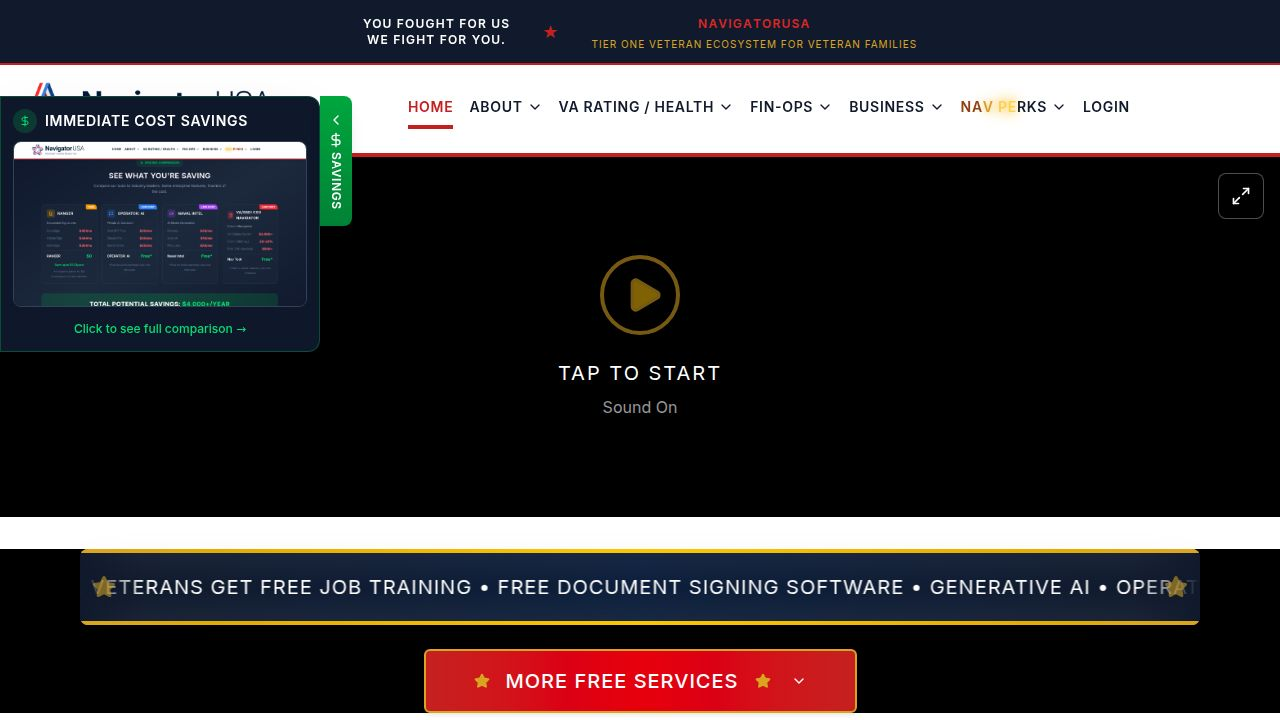
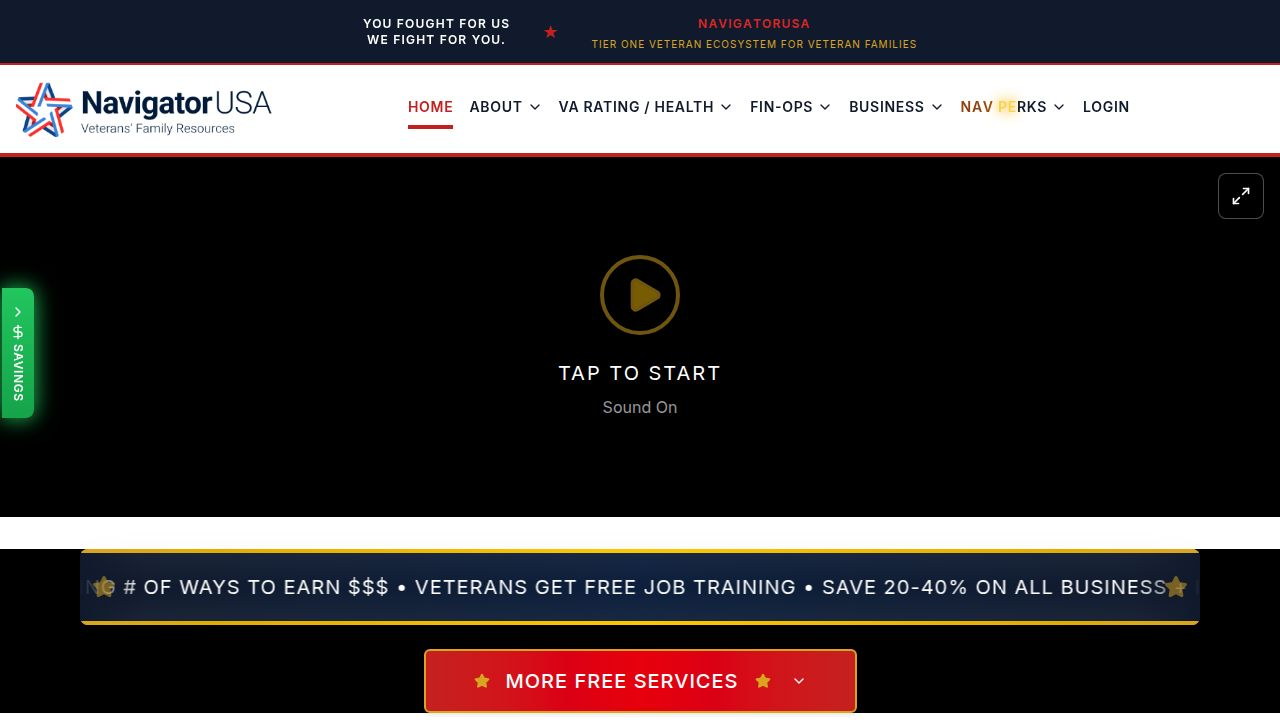
Animate cost savings widget and start it retracted
Update the cost savings widget to initialize in a retracted state, requiring user interaction to expand. Implement a flashing green animation for the retracted widget to draw attention.

Replit-Commit-Author: Agent
Replit-Commit-Session-Id: d10b5876-8984-41e8-a034-80bdb4d7a65a
Replit-Commit-Checkpoint-Type: full_checkpoint
Replit-Commit-Event-Id: fe3d0933-f686-4402-b1d4-cab22d2a968d
Replit-Commit-Screenshot-Url: https://storage.googleapis.com/screenshot-production-us-central1/f88dd830-92ac-4d12-a8c1-ac72bcbfbb85/d10b5876-8984-41e8-a034-80bdb4d7a65a/jIbah38
Replit-Helium-Checkpoint-Created: true

Changed region(s): [[0.0, 0.1222, 0.2812, 0.6111], [0.0625, 0.7944, 0.9375, 0.825], [0.75, 0.1222, 0.7812, 0.1528]]

diff --git a/client/src/components/cost-savings-widget.tsx b/client/src/components/cost-savings-widget.tsx
@@ -4,57 +4,76 @@ import { ChevronRight, ChevronLeft, DollarSign } from "lucide-react";
 import costSavingsPreview from "@/assets/images/cost-savings-preview.png";
 
 export function CostSavingsWidget() {
-  const [isMinimized, setIsMinimized] = useState(false);
+  const [isMinimized, setIsMinimized] = useState(true);
 
   return (
-    <div className="fixed top-[40%] left-0 z-50 flex items-start">
-      <div
-        className={`bg-slate-900 border border-green-500/30 rounded-r-xl shadow-2xl transition-all duration-300 overflow-hidden ${
-          isMinimized ? "w-0 opacity-0" : "w-72 sm:w-80 opacity-100"
-        }`}
-      >
-        <div className="p-3">
-          <div className="flex items-center gap-2 mb-2">
-            <div className="w-6 h-6 bg-green-500/20 rounded-full flex items-center justify-center">
-              <DollarSign className="w-3 h-3 text-green-400" />
-            </div>
-            <h3 className="text-sm font-bold text-white uppercase tracking-wider">
-              Immediate Cost Savings
-            </h3>
-          </div>
-          
-          <Link href="/about-nav-perks#pricing-comparison">
-            <div className="cursor-pointer group">
-              <img
-                src={costSavingsPreview}
-                alt="Cost Savings Comparison"
-                className="w-full rounded-lg border border-slate-700 group-hover:border-green-500/50 transition-all"
-              />
-              <div className="mt-2 text-center">
-                <span className="text-green-400 text-xs font-medium group-hover:underline">
-                  Click to see full comparison →
-                </span>
+    <>
+      <style>{`
+        @keyframes flashGreen {
+          0%, 100% { 
+            background: linear-gradient(to bottom, #16a34a, #15803d);
+            box-shadow: 0 0 10px rgba(34, 197, 94, 0.5);
+          }
+          50% { 
+            background: linear-gradient(to bottom, #22c55e, #16a34a);
+            box-shadow: 0 0 20px rgba(34, 197, 94, 0.8), 0 0 30px rgba(34, 197, 94, 0.4);
+          }
+        }
+        .animate-flash-green {
+          animation: flashGreen 1.5s ease-in-out infinite;
+        }
+      `}</style>
+      <div className="fixed top-[40%] left-0 z-50 flex items-start">
+        <div
+          className={`bg-slate-900 border border-green-500/30 rounded-r-xl shadow-2xl transition-all duration-300 overflow-hidden ${
+            isMinimized ? "w-0 opacity-0" : "w-72 sm:w-80 opacity-100"
+          }`}
+        >
+          <div className="p-3">
+            <div className="flex items-center gap-2 mb-2">
+              <div className="w-6 h-6 bg-green-500/20 rounded-full flex items-center justify-center">
+                <DollarSign className="w-3 h-3 text-green-400" />
               </div>
+              <h3 className="text-sm font-bold text-white uppercase tracking-wider">
+                Immediate Cost Savings
+              </h3>
             </div>
-          </Link>
+            
+            <Link href="/about-nav-perks#pricing-comparison">
+              <div className="cursor-pointer group">
+                <img
+                  src={costSavingsPreview}
+                  alt="Cost Savings Comparison"
+                  className="w-full rounded-lg border border-slate-700 group-hover:border-green-500/50 transition-all"
+                />
+                <div className="mt-2 text-center">
+                  <span className="text-green-400 text-xs font-medium group-hover:underline">
+                    Click to see full comparison →
+                  </span>
+                </div>
+              </div>
+            </Link>
+          </div>
         </div>
+        
+        <button
+          onClick={() => setIsMinimized(!isMinimized)}
+          className={`text-white px-2 py-4 rounded-r-lg shadow-lg transition-all flex flex-col items-center gap-1 ${
+            isMinimized ? "animate-flash-green" : "bg-gradient-to-b from-green-600 to-green-700 hover:from-green-500 hover:to-green-600"
+          }`}
+          data-testid="cost-savings-toggle"
+        >
+          {isMinimized ? (
+            <ChevronRight className="w-4 h-4" />
+          ) : (
+            <ChevronLeft className="w-4 h-4" />
+          )}
+          <DollarSign className="w-4 h-4" />
+          <span className="text-xs font-bold uppercase tracking-wider [writing-mode:vertical-rl] [text-orientation:mixed]">
+            Savings
+          </span>
+        </button>
       </div>
-      
-      <button
-        onClick={() => setIsMinimized(!isMinimized)}
-        className="bg-gradient-to-b from-green-600 to-green-700 text-white px-2 py-4 rounded-r-lg shadow-lg hover:from-green-500 hover:to-green-600 transition-all flex flex-col items-center gap-1"
-        data-testid="cost-savings-toggle"
-      >
-        {isMinimized ? (
-          <ChevronRight className="w-4 h-4" />
-        ) : (
-          <ChevronLeft className="w-4 h-4" />
-        )}
-        <DollarSign className="w-4 h-4" />
-        <span className="text-xs font-bold uppercase tracking-wider [writing-mode:vertical-rl] [text-orientation:mixed]">
-          Savings
-        </span>
-      </button>
-    </div>
+    </>
   );
 }
